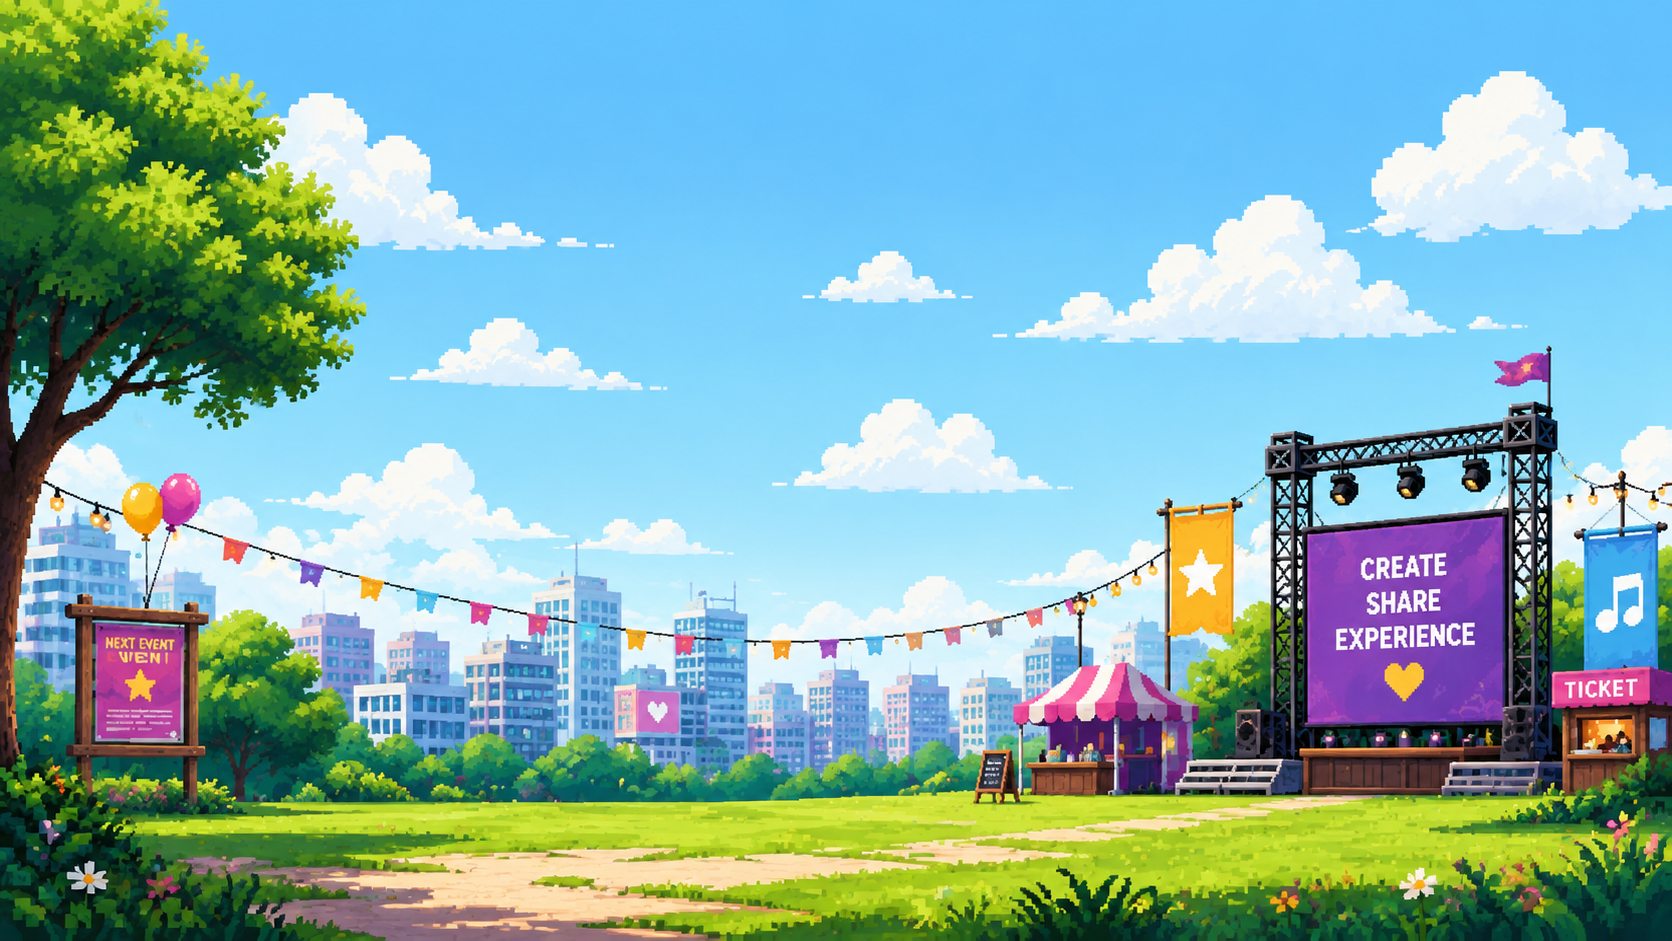
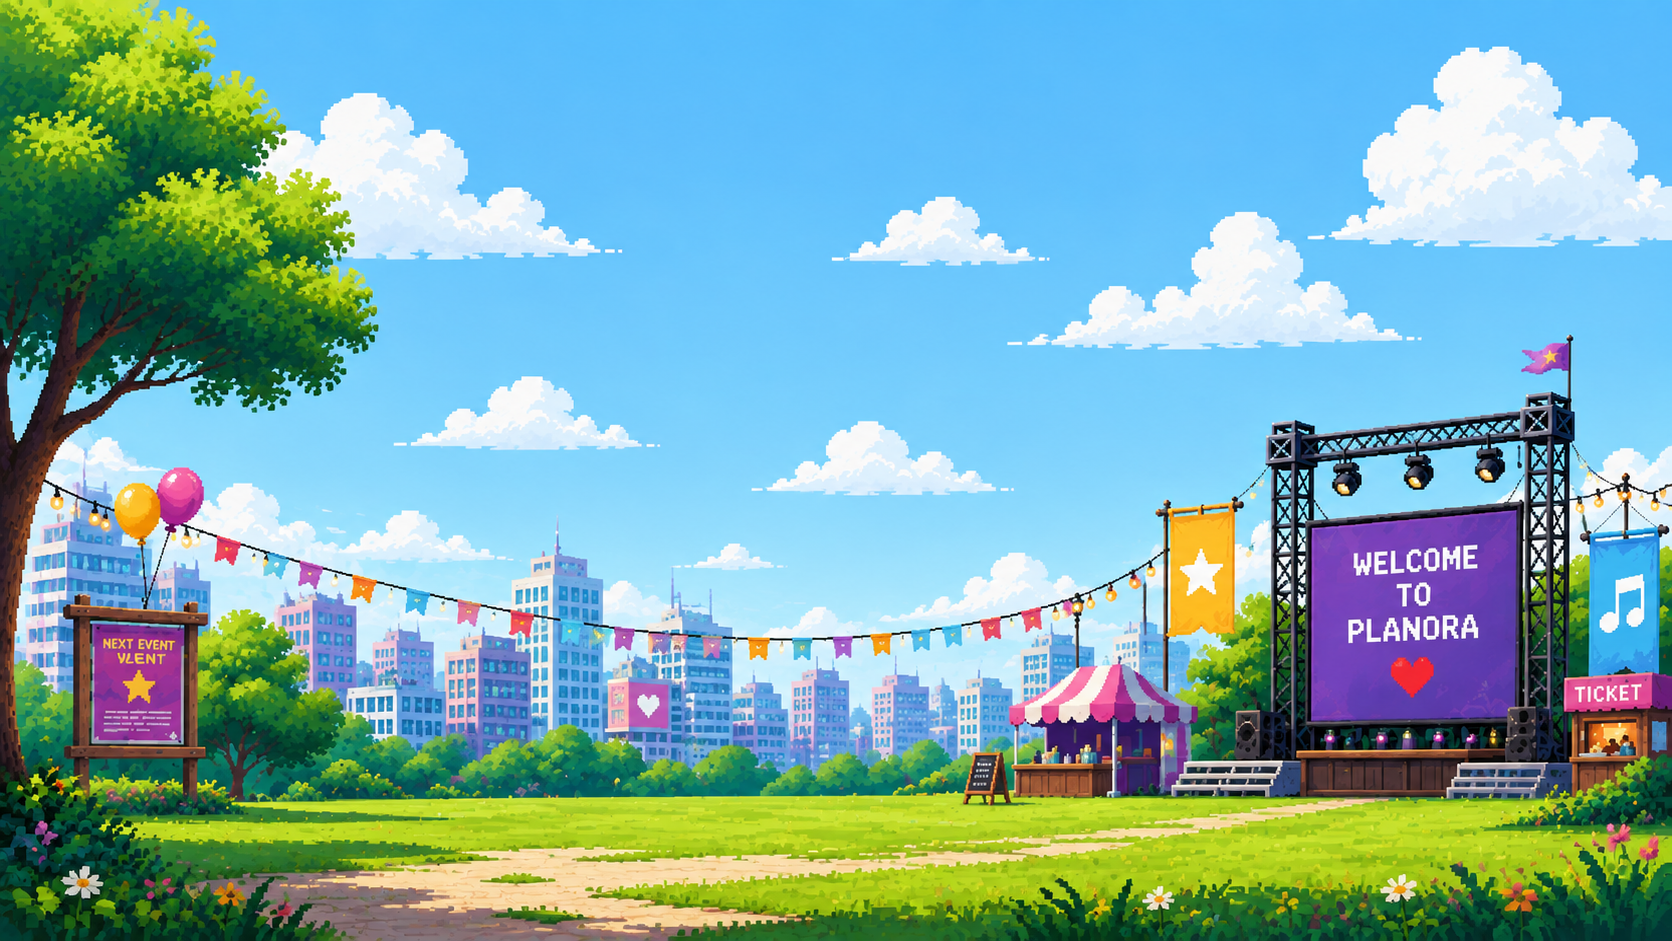
update landing page navigation transparency and implement full-bleed background layout

diff --git a/frontend/src/pages/Landing.tsx b/frontend/src/pages/Landing.tsx
@@ -120,9 +120,9 @@ export function Landing() {
             paddingLeft: scrolled ? (isDesktop ? "1.5rem" : "1.25rem") : "1.5rem",
             paddingRight: scrolled ? (isDesktop ? "1.5rem" : "1.25rem") : "1.5rem",
             maxWidth: scrolled ? (isDesktop ? "44rem" : "92%") : "72rem",
-            backgroundColor: scrolled ? "rgba(251, 251, 251, 0.85)" : "rgba(251, 251, 251, 0.98)",
-            backdropFilter: scrolled ? "blur(18px)" : "blur(8px)",
-            border: scrolled ? "1px solid rgba(0, 0, 0, 0.08)" : "1px solid rgba(0, 0, 0, 0.04)",
+            backgroundColor: scrolled ? "rgba(251, 251, 251, 0.85)" : "rgba(251, 251, 251, 0)",
+            backdropFilter: scrolled ? "blur(18px)" : "blur(0px)",
+            border: scrolled ? "1px solid rgba(0, 0, 0, 0.08)" : "1px solid rgba(0, 0, 0, 0)",
           }}
           style={{ marginLeft: "auto", marginRight: "auto" }}
           transition={{ type: "spring", stiffness: 120, damping: 22 }}
@@ -155,7 +155,7 @@ export function Landing() {
                   Planning <ChevronDown size={13} className={`transition-transform duration-200 ${planningDropdown ? 'rotate-180' : ''}`} />
                 </button>
                 {planningDropdown && (
-                  <div className="absolute top-full left-1/2 -translate-x-1/2 mt-2 w-44 rounded-2xl border border-neutral-100 bg-white p-2 shadow-lg ring-1 ring-black/5 animate-in fade-in duration-200">
+                  <div className="absolute top-full left-1/2 -translate-x-1/2 mt-2 w-44 rounded-2xl border border-neutral-100 bg-white p-2 shadow-lg ring-1 ring-black/5 animate-in fade-in duration-200 z-50">
                     <Link to="/events" onClick={() => setPlanningDropdown(false)} className="block rounded-xl px-3 py-2 text-[12px] font-medium text-neutral-600 hover:bg-neutral-50 hover:text-neutral-950">
                       Browse Events
                     </Link>
@@ -178,7 +178,7 @@ export function Landing() {
                   Categories <ChevronDown size={13} className={`transition-transform duration-200 ${categoryDropdown ? 'rotate-180' : ''}`} />
                 </button>
                 {categoryDropdown && (
-                  <div className="absolute top-full left-1/2 -translate-x-1/2 mt-2 w-44 rounded-2xl border border-neutral-100 bg-white p-2 shadow-lg ring-1 ring-black/5 animate-in fade-in duration-200">
+                  <div className="absolute top-full left-1/2 -translate-x-1/2 mt-2 w-44 rounded-2xl border border-neutral-100 bg-white p-2 shadow-lg ring-1 ring-black/5 animate-in fade-in duration-200 z-50">
                     <Link to="/events?cat=Technical" onClick={() => setCategoryDropdown(false)} className="block rounded-xl px-3 py-2 text-[12px] font-medium text-neutral-600 hover:bg-neutral-50 hover:text-neutral-950">
                       Technical & Talks
                     </Link>
@@ -279,18 +279,18 @@ export function Landing() {
         </motion.nav>
       </div>
 
-      {/* Hero Section */}
-      <section className="relative flex flex-col items-center justify-center pt-28 pb-16 text-center px-6 overflow-hidden">
-        {/* Background Image asset (uploaded pixel art scene) */}
-        <div className="absolute inset-0 z-0 overflow-hidden pointer-events-none select-none">
-          <img 
-            src="/morning.png" 
-            alt="Event Background" 
-            className="w-full h-full object-cover opacity-[0.95] filter saturate-[1.1] contrast-[1.02]" 
-          />
-          <div className="absolute inset-0 bg-gradient-to-b from-[#fbfbfb]/10 via-transparent to-[#fbfbfb]/80" />
-        </div>
+      {/* Full-Bleed Page Level Background Image spanning absolute top-0 */}
+      <div className="absolute top-0 inset-x-0 h-[800px] sm:h-[950px] z-0 overflow-hidden pointer-events-none select-none">
+        <img 
+          src="/morning.png" 
+          alt="Event Background" 
+          className="w-full h-full object-cover opacity-[0.98] filter saturate-[1.1] contrast-[1.02]" 
+        />
+        <div className="absolute inset-0 bg-gradient-to-b from-transparent via-[#fbfbfb]/40 to-[#fbfbfb]" />
+      </div>
 
+      {/* Hero Section */}
+      <section className="relative flex flex-col items-center justify-center pt-32 pb-20 text-center px-6 overflow-hidden">
         {/* Central Badge */}
         <div className="relative z-10 mb-6 inline-flex items-center gap-2 rounded-full border border-neutral-200/80 bg-white px-4 py-1.5 text-[11px] font-semibold text-neutral-700 shadow-sm hover:border-neutral-300 transition-colors duration-300 select-none">
           <span>⚡</span>
